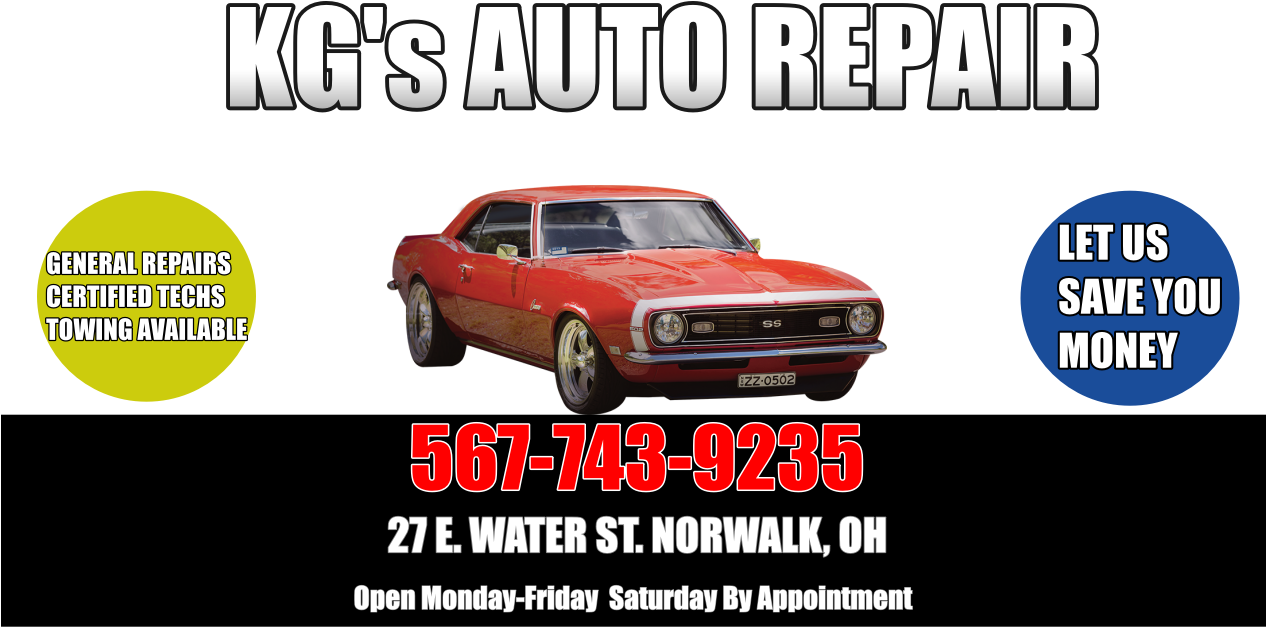
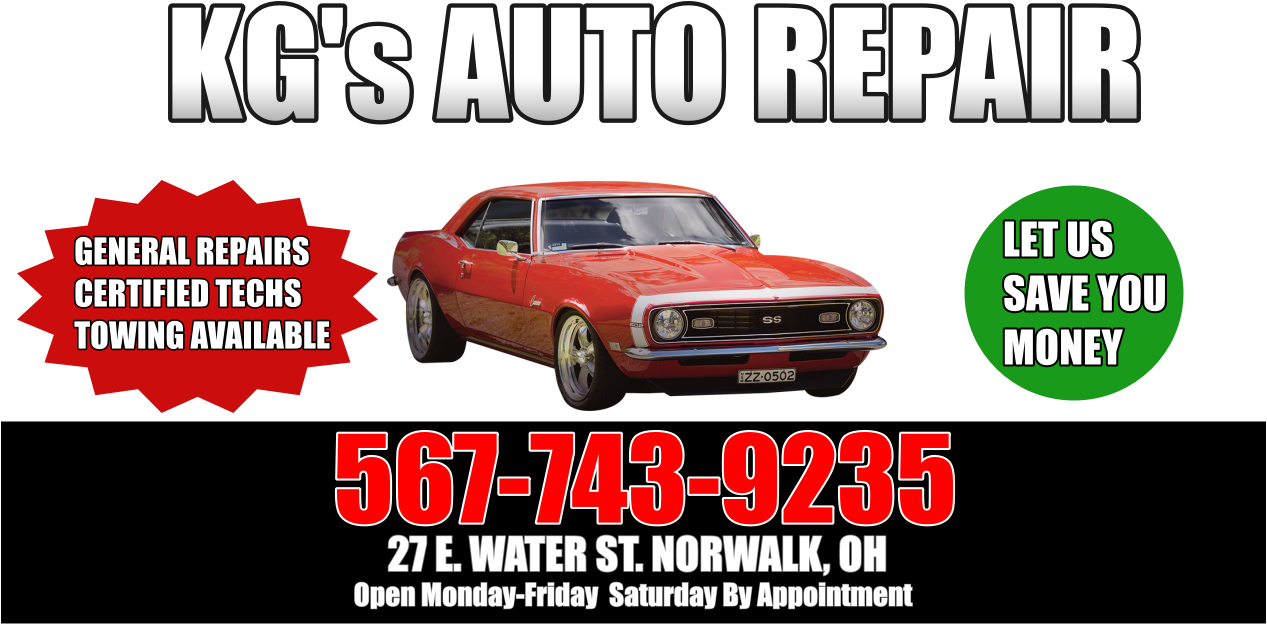
working on it

diff --git a/index.html b/index.html
@@ -14,34 +14,30 @@
         <script src="https://cdnjs.cloudflare.com/ajax/libs/jquery/3.2.1/jquery.min.js"></script>
     </head>
     <body>
-
+      <div class="jumbotron">
+          <p id="title">KG's AUTO REPAIR</p>
+      </div>
         <div class="index">
                 <nav class="navbar navbar-default">
                     <div class="container-fluid navbar-custom">
                         <div class="row">
-                            <div class="navbar-header">
-                                <div class="col-xs-12 phone-nav">
-                                    <a class="navbar-brand" href="index.html" id="logo">KGs Auto</a>
-                                </div>
-                            </div>
-
-                            <div class="col-lg-4-xs-12 phone-nav" id="links">
-                                <div class="col-lg-1-xs-4 phone-nav" id="link">
+                            <div class="col-lg-12-xs-12 phone-nav" id="links">
+                                <div class="col-lg-3-xs-4 phone-nav" id="link">
                                   <a id="navbar-link" href="about.html">About Us</a>
                                 </div>
-                                <div class="col-lg-1-xs-4 phone-nav" id="link">
+                                <div class="col-lg-3-xs-4 phone-nav" id="link">
                                     <a id="navbar-link" href="autorepair.html">Auto Repair Services</a>
                                 </div>
-                                <div class="col-lg-1-xs-4 phone-nav" id="link">
+                                <div class="col-lg-3-xs-4 phone-nav" id="link">
                                     <a id="navbar-link" href="motorcyclerepair.html">Motorcycle Repair Services</a>
                                 </div>
-                                <div class="col-lg-1-xs-4 phone-nav" id="link">
+                                <div class="col-lg-3-xs-4 phone-nav" id="link">
                                     <a id="navbar-link" href="otherservices.html">Other Repair Services</a>
                                 </div>
-                                <div class="col-lg-1-xs-4 phone-nav" id="link">
+                                <div class="col-lg-3-xs-4 phone-nav" id="link">
                                   <a id="navbar-link" href="contact.html">Contact Us</a>
                                 </div>
-                                <div class="col-lg-1-xs-4 phone-nav" id="link">
+                                <div class="col-lg-3-xs-4 phone-nav" id="link">
                                   <a id="navbar-link" href="testamonials.html">Testamonials</a>
                                 </div>
                             </div>
@@ -53,46 +49,13 @@
                     <div class="container">
                         <section class="row">
                             <div class="col-md-8">
-                                <section id="about-me">
-                                    <article class="about-me-content">
-                                        <h1 class="about-me-header">About Me</h1>
-                                        <hr class="about-me-hr">
-                                        <img src="assets/images/profile2.jpg" alt="" id="auth-image">
-                                        <p>I am a life-long seeker of knowledge and Sociology graduate who currently has his sights set on a full-time position utilizing
-                                            my programming skills. I have over twenty years experience in the work force which has lead me to solve many challenges
-                                            in diverse situations. I have enjoyed it all very much but I am ready for a new set of challenges to conquer. I am excited
-                                            for my next experience and am willing to relocate for the right opportunity. I appreciate your consideration for any
-                                            position you think I might be suitable for.</p>
-                                        <br>
-                                        <p>Feel free to browse around and check out some of the applications I've created; or had a hand in creating. I have also included
-                                            a copy of my resume, which can be reached by the link in the navbar, to give you a better idea of my education and experience.
-                                            Of course, I would be delighted to speak with you further about any of my projects, skills, or experience. Feel free
-                                            to send me a message at
-                                            <strong>mike.matheny.81@gmail.com</strong> or, if you prefer, use one of the sites linked by the icons in the navbar.</p>
-                                    </article>
-                                </section>
-                            </div>
-                            <div class="col-md-4">
-                                <section id="skills-area-index">
-                                    <div class="skills-content">
-                                        <h1 class="skills-header">Skills</h1>
-                                        <hr />
-                                        <div id="skills">
-                                            <ul>
-                                             <li>Javascript</li>
-                                             <li>JQuery</li>
-                                             <li>MySQL</li>
-                                             <li>MongoDB</li>
-                                             <li>React JS</li>
-                                            </ul>
-                                        </div>
-                                    </div>
-                                </section>
+                                <div>
+                                  <img src="assets/images/kgad.png" alt="" id="ad-image">
+                                </div>
                             </div>
                         </section>
                     </div>
                 </div>
-
                 <footer class="footer">
                     <div class="two-toned-footer-color"></div>
                     <p class="text-muted text-muted-footer text-center">

diff --git a/assets/css/style.css b/assets/css/style.css
@@ -8,8 +8,18 @@ html {
   min-height: 100%;
 }
 
-h1 {
-  font-size: 80px;
+.jumbotron {
+  height: 100px;
+  margin-bottom: 0px;
+  width: 100%;
+  text-align: center;
+  display: inline-block;
+  margin-top: -20px;
+}
+
+#title {
+  font-size: 75px;
+  padding-bottom: 20px;
 }
 
 #name-plate {
@@ -79,16 +89,19 @@ strong {
 }
 
 #links {
-  float: right;
-  padding-right: 20px;
   font-family: 'Khand', sans-serif;
   font-weight: lighter;
+  display: float;
+  position: center;
 }
 
 #link {
   display: inline-block;
   text-align: center;
-  padding: 2px;
+  padding-left: 40px;
+  padding-right: 40px;
+  padding-top: 20px;
+  padding-bottom: 20px;
 }
 
 .navbar-right-custom {
